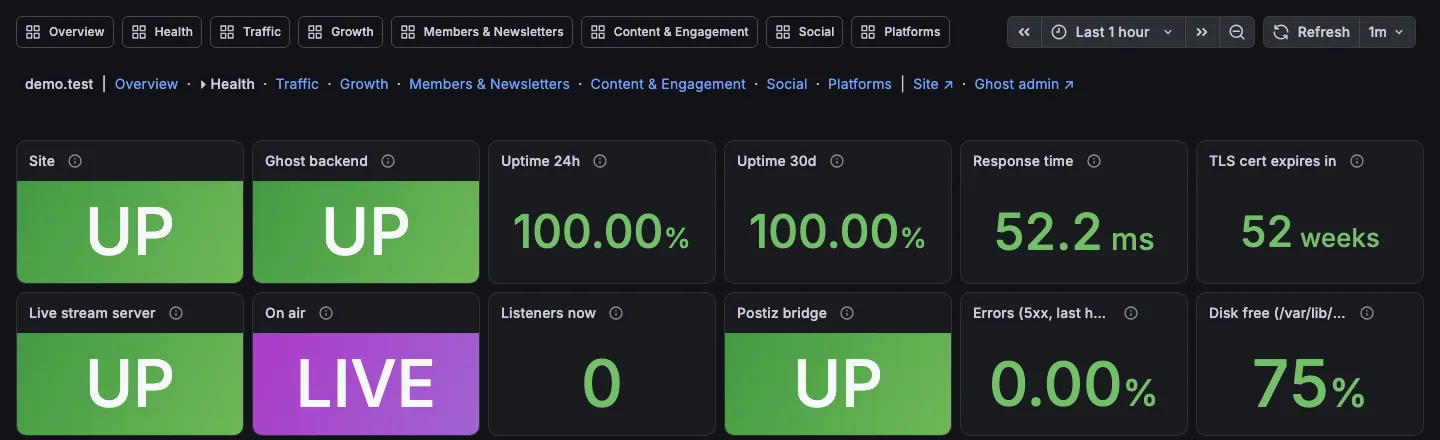
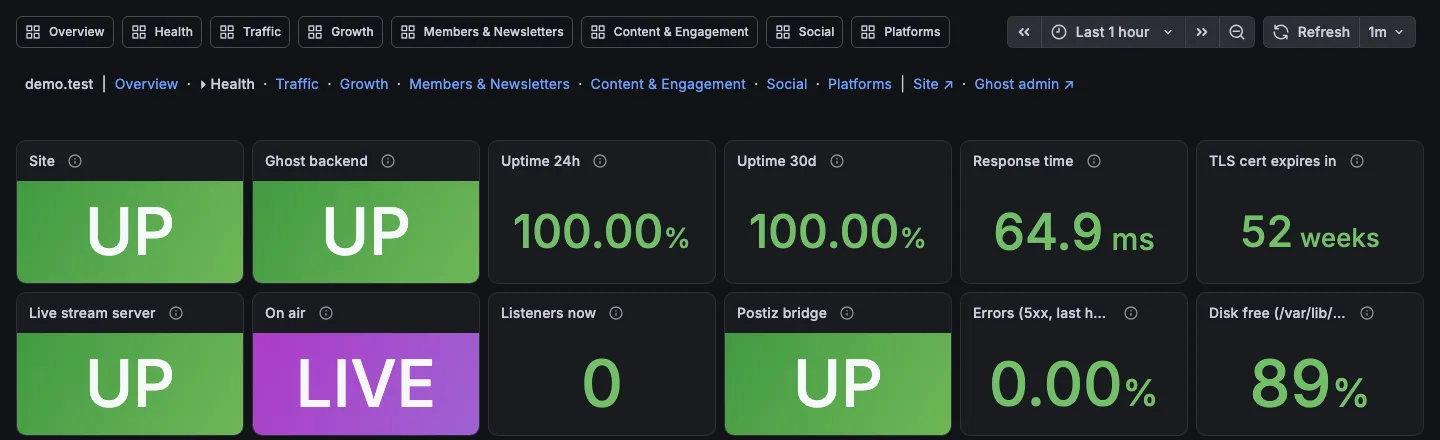
Kit demo: the Social preview in the README, from a draft and a stand-in Postiz
- The README shows a draft's Social preview (Bluesky, Threads, Instagram,
  TikTok) instead of saying it isn't pictured
- demo.sh, after Grafana's shots: a Ghost custom integration's Admin API key
  for the bridge, and a small stand-in for Postiz that lists four made-up
  channels (with DRY_RUN that list is all the bridge asks Postiz for), so no
  network accounts are needed; the EXIT trap removes the stand-in
- content.py adds one draft with a SoundCloud link (the featured link
  shows); shots.mjs's preview step signs in to Ghost from the page and clips
  the shot at the end of the cards
- The other screenshots retaken on the same run (new dates only)

Changed region(s): [[0.8438, 0.7977, 0.9688, 0.9455], [0.6875, 0.4727, 0.7812, 0.5909]]

diff --git a/kit/demo/content.py b/kit/demo/content.py
@@ -48,6 +48,21 @@ for i, (title, tag, paras) in enumerate(POSTS):
     json.dump(body, open(f"{d}/post{i}.json", "w"))
     out.append(("POST", "/posts/", f"{d}/post{i}.json"))
 
+# a draft, for the Social preview's shot (not a post*.json: visits.py gives those their visits)
+# with a music link, so the preview shows the featured link
+paras = ["Recorded on the roof last Saturday, rain and all.", "Two hours of warm house; the tracklist is below."]
+body = json.loads(lexical(paras))
+body["root"]["children"].append({"type": "paragraph", "version": 1, "direction": None, "format": "", "indent": 0,
+                                 "children": [{"type": "link", "version": 1, "rel": None, "target": None, "title": None,
+                                               "url": "https://soundcloud.com/example/night-owl-session-43",
+                                               "direction": None, "format": "", "indent": 0, "children": [
+                                                   {"type": "text", "version": 1, "text": "Listen on SoundCloud",
+                                                    "detail": 0, "format": 0, "mode": "normal", "style": ""}]}]})
+json.dump({"posts": [{"title": "Night Owl Session 43: back on the rooftop", "status": "draft", "feature_image": pics[3],
+                      "tags": [{"name": "mixes"}], "lexical": json.dumps(body), "custom_excerpt": paras[0]}]},
+          open(f"{d}/draft.json", "w"))
+out.append(("POST", "/posts/", f"{d}/draft.json"))
+
 
 nav = [{"label": l, "url": u} for l, u in [("SoundCloud", "https://soundcloud.com/example"),
                                              ("Mixcloud", "https://www.mixcloud.com/example/"),

diff --git a/kit/demo/CLAUDE.md b/kit/demo/CLAUDE.md
@@ -13,6 +13,12 @@ this shares with `kit/test.sh`).
   counts the table). Stand-ins, demo only: Traefik joins blackbox's network as demo.test and live.demo.test, and
   blackbox skips certificate checks (Traefik's own), so the uptime tiles read UP.
 - `shots.mjs` (muted Chromium, `kit/theme-test/`'s Playwright): the home page with the LIVE NOW bar on a laptop and a
-  phone, Grafana's Traffic and Overview (30 days) and Health's tiles (kiosk mode). No social preview shot: it needs
-  Postiz with real networks connected.
+  phone, Grafana's Traffic and Overview (30 days) and Health's tiles (kiosk mode); `preview`: a draft's Social preview
+  (`content.py`'s one draft, not a `post*.json` so it gets no visits), signed in to Ghost Admin from the page
+  (Playwright's own requests don't get the browser's `demo.test` mapping); the draft has a SoundCloud link, so the
+  featured link shows. For it, after Grafana's shots (so the made-up networks are never in the numbers), demo.sh gives
+  the bridge a Ghost custom integration's Admin API key and swaps Postiz for a stand-in (`demo-postiz-standin`, node,
+  alias `postiz` on the `_postiz` network; the EXIT trap removes it before the site, or its network can't go; `--keep`
+  leaves it: `docker rm -f` it first) that lists Bluesky, Threads, Instagram and TikTok: with DRY_RUN the bridge asks
+  Postiz only for that list, so no network accounts are needed.
 - Needs the same ports as test.sh (`LIVE_PORT` too), ffmpeg with `gradients` (4.4+), cwebp.

diff --git a/CONTRIBUTING.md b/CONTRIBUTING.md
@@ -54,7 +54,7 @@ next to what you change, and keep it true in the same change.
 | Dashboards or alert rules | `python3 stacks/monitoring/grafana/style.py --check` and `ro-tables.py --check` (the hook runs both) | seconds |
 | An image's version (a compose file, k8s's YAML, a Dockerfile) | `python3 k8s/test/image-pins.py`: every image at an exact version, the same in every file (the hook runs it). A bump is one edit in all of them, with its `kit/CHANGELOG.md` line | seconds |
 | A new file, or anything with an address or name in it | `python3 kit/scrub.py --names` (no site's own names in the kit's files; without `--names` it also runs gitleaks for secrets, in Docker) | seconds |
-| The README's screenshots (after a visible change to the theme or the dashboards) | `kit/demo/demo.sh`: a made-up demo site, photographed and removed; writes `kit/docs/images/` | several minutes |
+| The README's screenshots (after a visible change to the theme, the dashboards or the Social preview) | `kit/demo/demo.sh`: a made-up demo site, photographed and removed; writes `kit/docs/images/` | several minutes |
 | Anything in `k8s/` | `k8s/test/test.sh --render-only` first; then `k8s/test/test.sh` (with `--overlay k3d-eks` or `k3d-gke` for a cloud overlay, `--migrate` for the migration) on a local k3d cluster (for now on a Mac with Docker Desktop: below) | 1-16 min |
 
 `kit/test.sh` and `kit/demo/demo.sh` run on Linux, a Mac, or Windows inside WSL2 (Ubuntu, with the repo cloned

diff --git a/README.md b/README.md
@@ -27,8 +27,10 @@ own cluster, Amazon EKS or Google GKE).
 
 ![Grafana's Health: the site, Ghost, the stream server, the bridge, errors and disk at a glance](kit/docs/images/health.webp)
 
-*Screenshots from a made-up demo site.* Not pictured: when you publish a post, the bridge shares it to your networks,
-and Ghost's Preview of a draft gets a Social preview button that shows what each network would get.
+![The Social preview of a draft: what Bluesky, Threads, Instagram and TikTok would each get](kit/docs/images/social-preview.webp)
+
+*Screenshots from a made-up demo site.* When you publish a post, the bridge shares it to your networks; before that,
+Ghost's Preview of a draft gets a Social preview button that shows what each network would get (above).
 
 ## What you get
 
